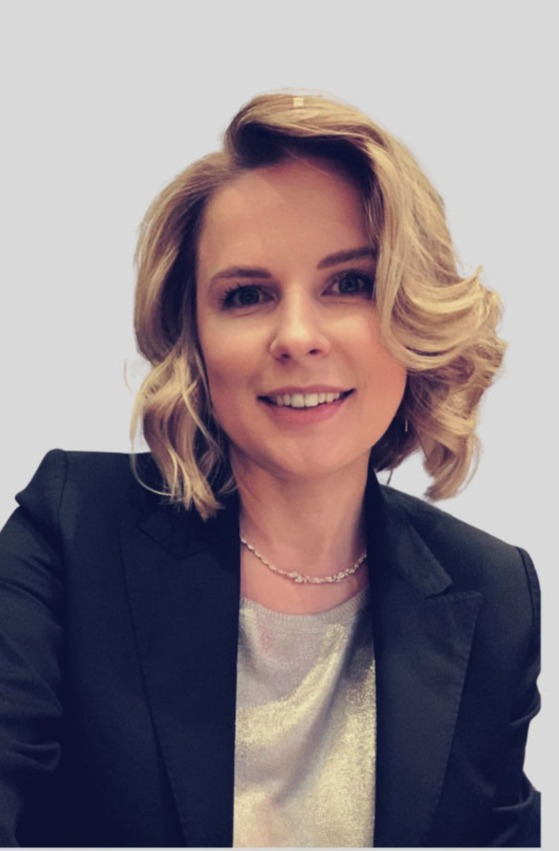
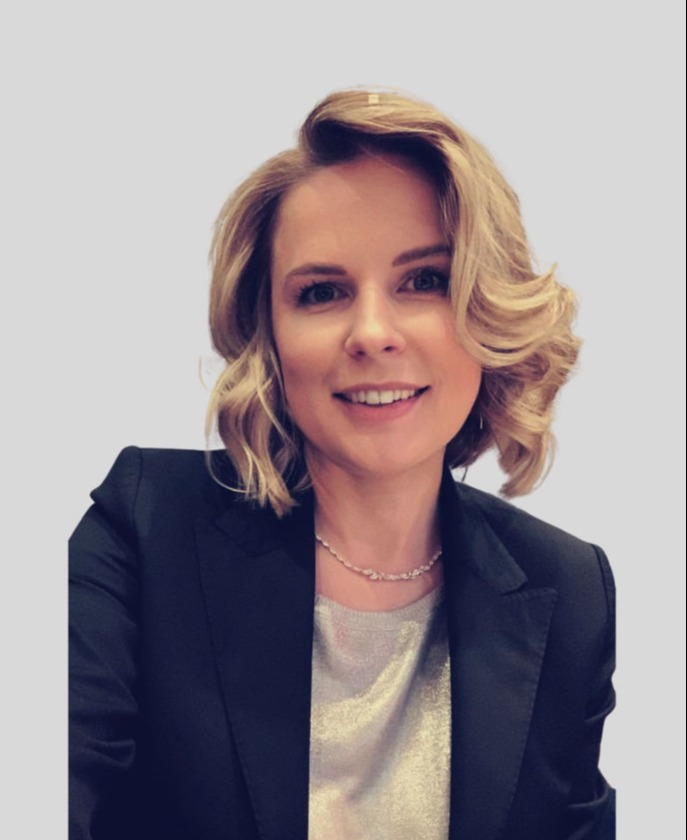
create github pages

Changed region(s): [[0.0, 0.0929, 0.9732, 1.0], [0.7603, 0.7738, 0.8211, 0.8667]]

diff --git a/index.html b/index.html
@@ -27,7 +27,7 @@
   <link rel="stylesheet" href="assets/recaptcha.css">
   <link rel="preload" href="https://fonts.googleapis.com/css?family=Rethink+Sans:400,500,600,700,800,400i,500i,600i,700i,800i&display=swap" as="style" onload="this.onload=null;this.rel='stylesheet'">
   <noscript><link rel="stylesheet" href="https://fonts.googleapis.com/css?family=Rethink+Sans:400,500,600,700,800,400i,500i,600i,700i,800i&display=swap"></noscript>
-  <link rel="preload" as="style" href="assets/mobirise/css/mbr-additional.css?v=SW3Z2r"><link rel="stylesheet" href="assets/mobirise/css/mbr-additional.css?v=SW3Z2r" type="text/css">
+  <link rel="preload" as="style" href="assets/mobirise/css/mbr-additional.css?v=pzJx6P"><link rel="stylesheet" href="assets/mobirise/css/mbr-additional.css?v=pzJx6P" type="text/css">
 
   
   
@@ -294,7 +294,7 @@
 		<div class="row content-wrapper justify-content-center">
 			<div class="col-lg-7 mbr-form" data-form-type="formoid">
 <!--Formbuilder Form-->
-<form action="https://mobirise.eu/" method="POST" class="mbr-form form-with-styler" data-form-title="CatalogRequest"><input type="hidden" name="email" data-form-email="true" value="pEufO+2oWD779EeCfG4qJW+ogD9VBqG2BTBU9tmGPKIsEAW9vfzmhYVFmKAfpcPlVoPxqm4oLJxXz96kBDnrm+wEbi8w8llYr6Lf74zo7BuBO3YItxwU7+l/I1dRkkWC.FNYVEVxvgnOLT0PWcWetyaTKNe//belN2/3kaVlWL0RGfmZaR0r7Eczoe6MR3nrEb3QyQ+lmMOcur1ZeZYmOaU5mfn9uol/9YoWPn6WlhFsDSDVMvfumoF6WFTd2GRni">
+<form action="https://mobirise.eu/" method="POST" class="mbr-form form-with-styler" data-form-title="CatalogRequest"><input type="hidden" name="email" data-form-email="true" value="I4Vf4V46iqTBRUUBWEiv7aY4xpjLN3NttNbzAE8vVXqU7iuZa/L831oULSUBBB1/hDtfO5ZxegbMQhmtyqHsdrJiVpx0pfR7WhT+z3Jq9lWJQdpnGtk/tkRiAkO+cyFI.70F1S5axfyQ0g2W6REzeFHfkBFK4u7q/Rube7uW4ZMp7j8/EmRX+bRm7h5fQ3zHHMBXJIEOApz+Ev7C/h6qp+nHB1EEA5xV2CHCJYXNq4wCIoIPmRS4nQc4m9S870CfV">
 <div class="row">
 <div hidden="hidden" data-form-alert="" class="alert alert-success col-12">Your catalogs are on the way.</div>
 <div hidden="hidden" data-form-alert-danger="" class="alert alert-danger col-12"> Oops...! some problem! </div>
@@ -326,7 +326,7 @@
                 <div class="content-wrapper">
                     <div class="image-wrapper">
                         <div class="image-wrap">
-                            <img src="assets/images/untitled20design2040-687x859.jpeg" alt="">
+                            <img src="assets/images/untitled20design2040-687x859.jpeg" alt="FAmeStudioAgency">
                         </div>
                         
                     </div>
@@ -683,7 +683,7 @@
                         </div>
                         <div class="mbr-form form-wrap" data-form-type="formoid">
 <!--Formbuilder Form-->
-<form action="https://mobirise.eu/" method="POST" class="mbr-form form-with-styler" data-form-title="Form Name"><input type="hidden" name="email" data-form-email="true" value="JTCR8cf5EXNNrTsWwRvXRfxBUd6HXASq1LYHaMeWbF56j8nJ7B6fkX5El8n9gJtz3FGbR9KGpvzYo3yZKu/CNYWPwFat8zOONbZSbHz1NMA34MlhoPYQzvrbgkz33Vcp.XqxJfcuwNr4/oHvMWNG0QMk2eWC6sRddfXG3hpGgHorIZWPHIJI+kMisolybURue0EB2lb0BBsJoKkJPFzJ+EnCIIL7YfS6aBYuzsXxs2U+pewjWq0Llm5wkCq9LHB/5">
+<form action="https://mobirise.eu/" method="POST" class="mbr-form form-with-styler" data-form-title="Form Name"><input type="hidden" name="email" data-form-email="true" value="PVJzMKhUjpQ1ibP7iY8nT4I1bw7Xjod7PyHtBCs5fxXJpV4gqvLUgcEe7W+Dop8oYWg1lBXbYRaZWxS3S00Hy0he6XUCcgH/FIwVAAoSM+14s5Juqn0E5koloeKom86S.KuPMrLIDBAD9CISq5DjWRmxmyODPJv3A7wjkU3Nmc2Pjk7SVT5P0qzzkMe3HVaj73116vdJA/80Db4APU/Xg2tw0bOF6BtqUqO55xPtVFR4hzzFuEsvgUYKwa4tGiaji">
 <div class="row">
 <div hidden="hidden" data-form-alert="" class="alert alert-success col-12">Thanks for filling out the form!</div>
 <div hidden="hidden" data-form-alert-danger="" class="alert alert-danger col-12"> Oops...! some problem! </div>
